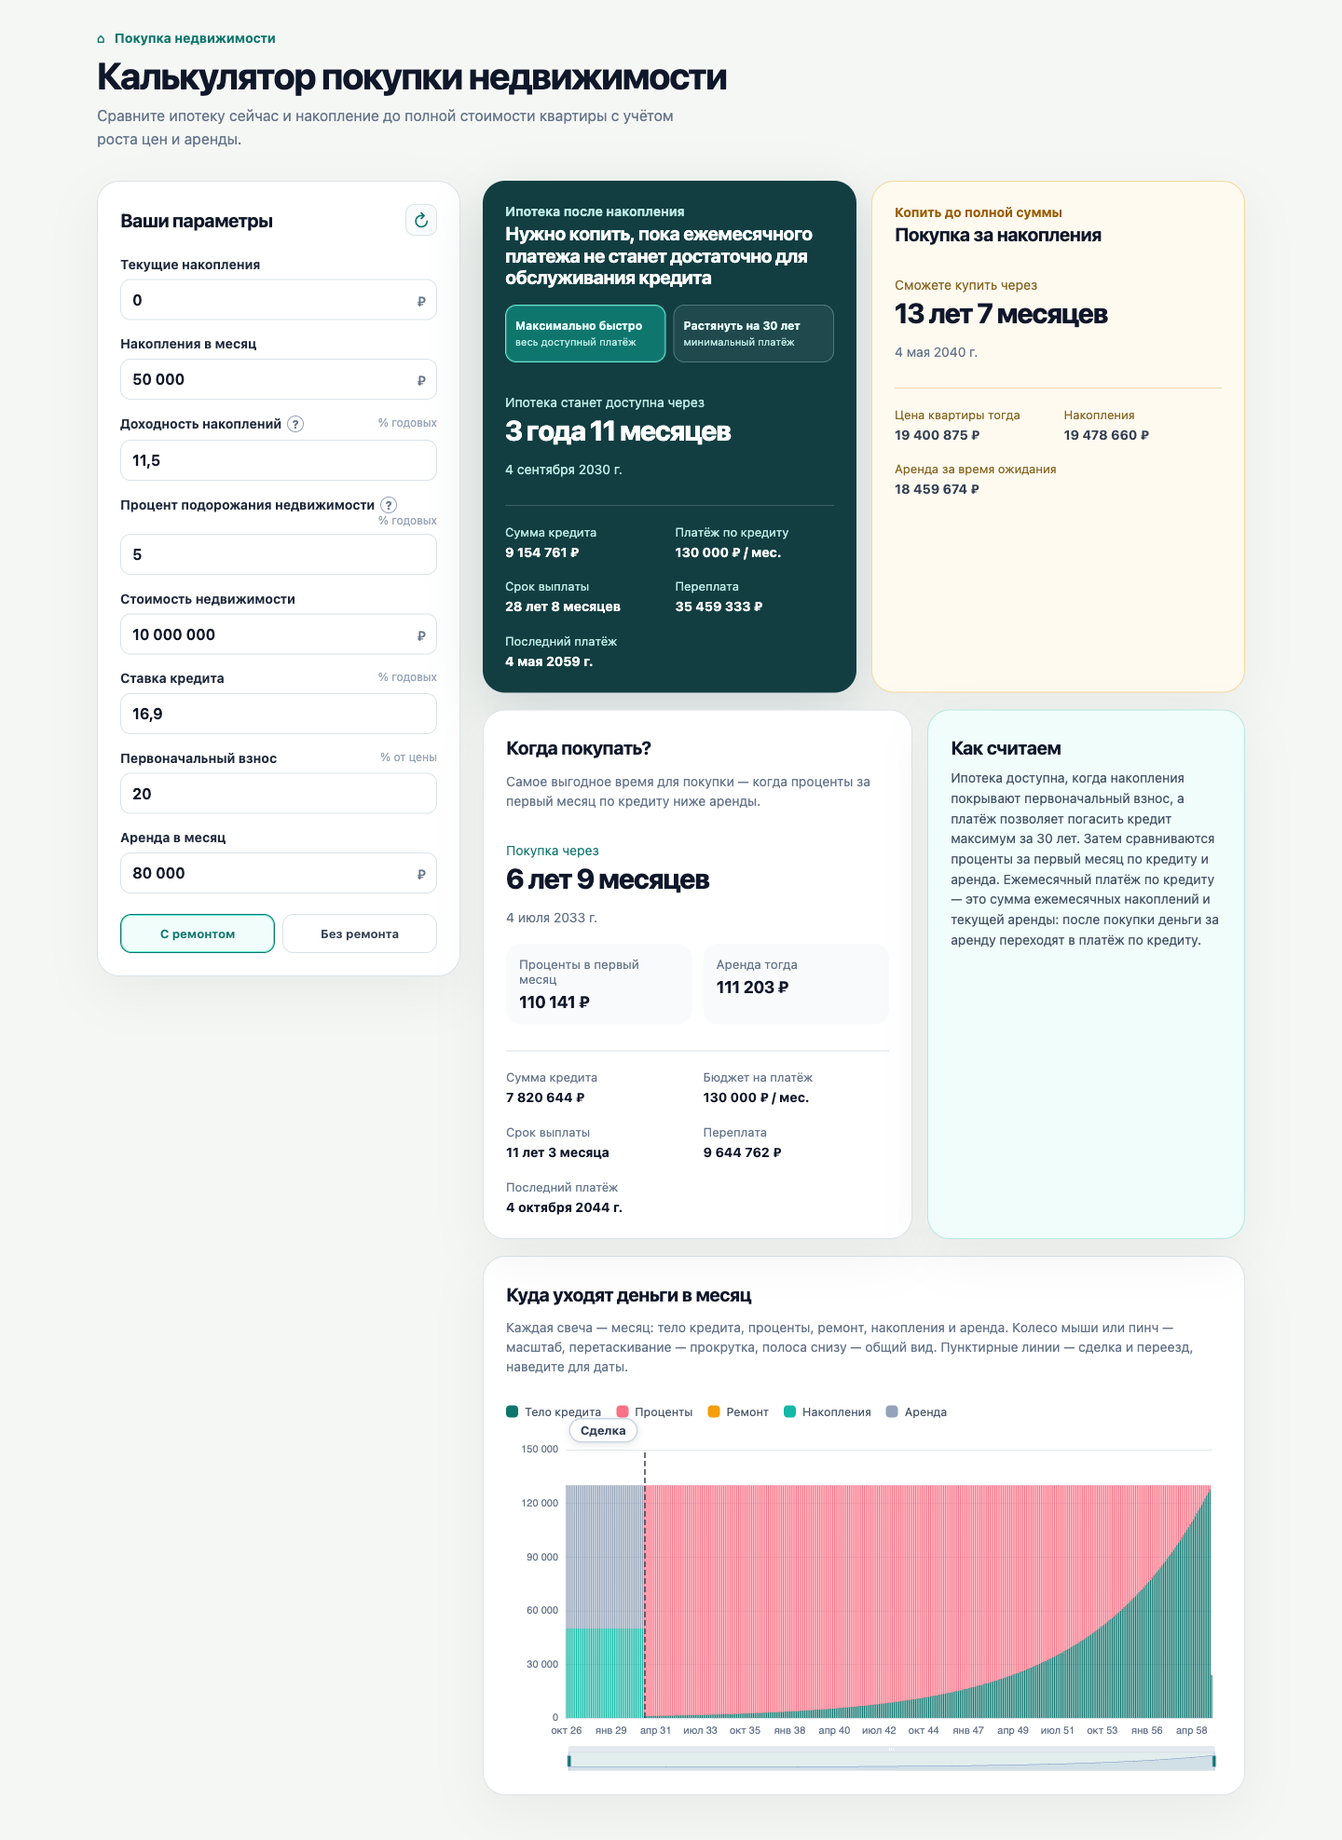
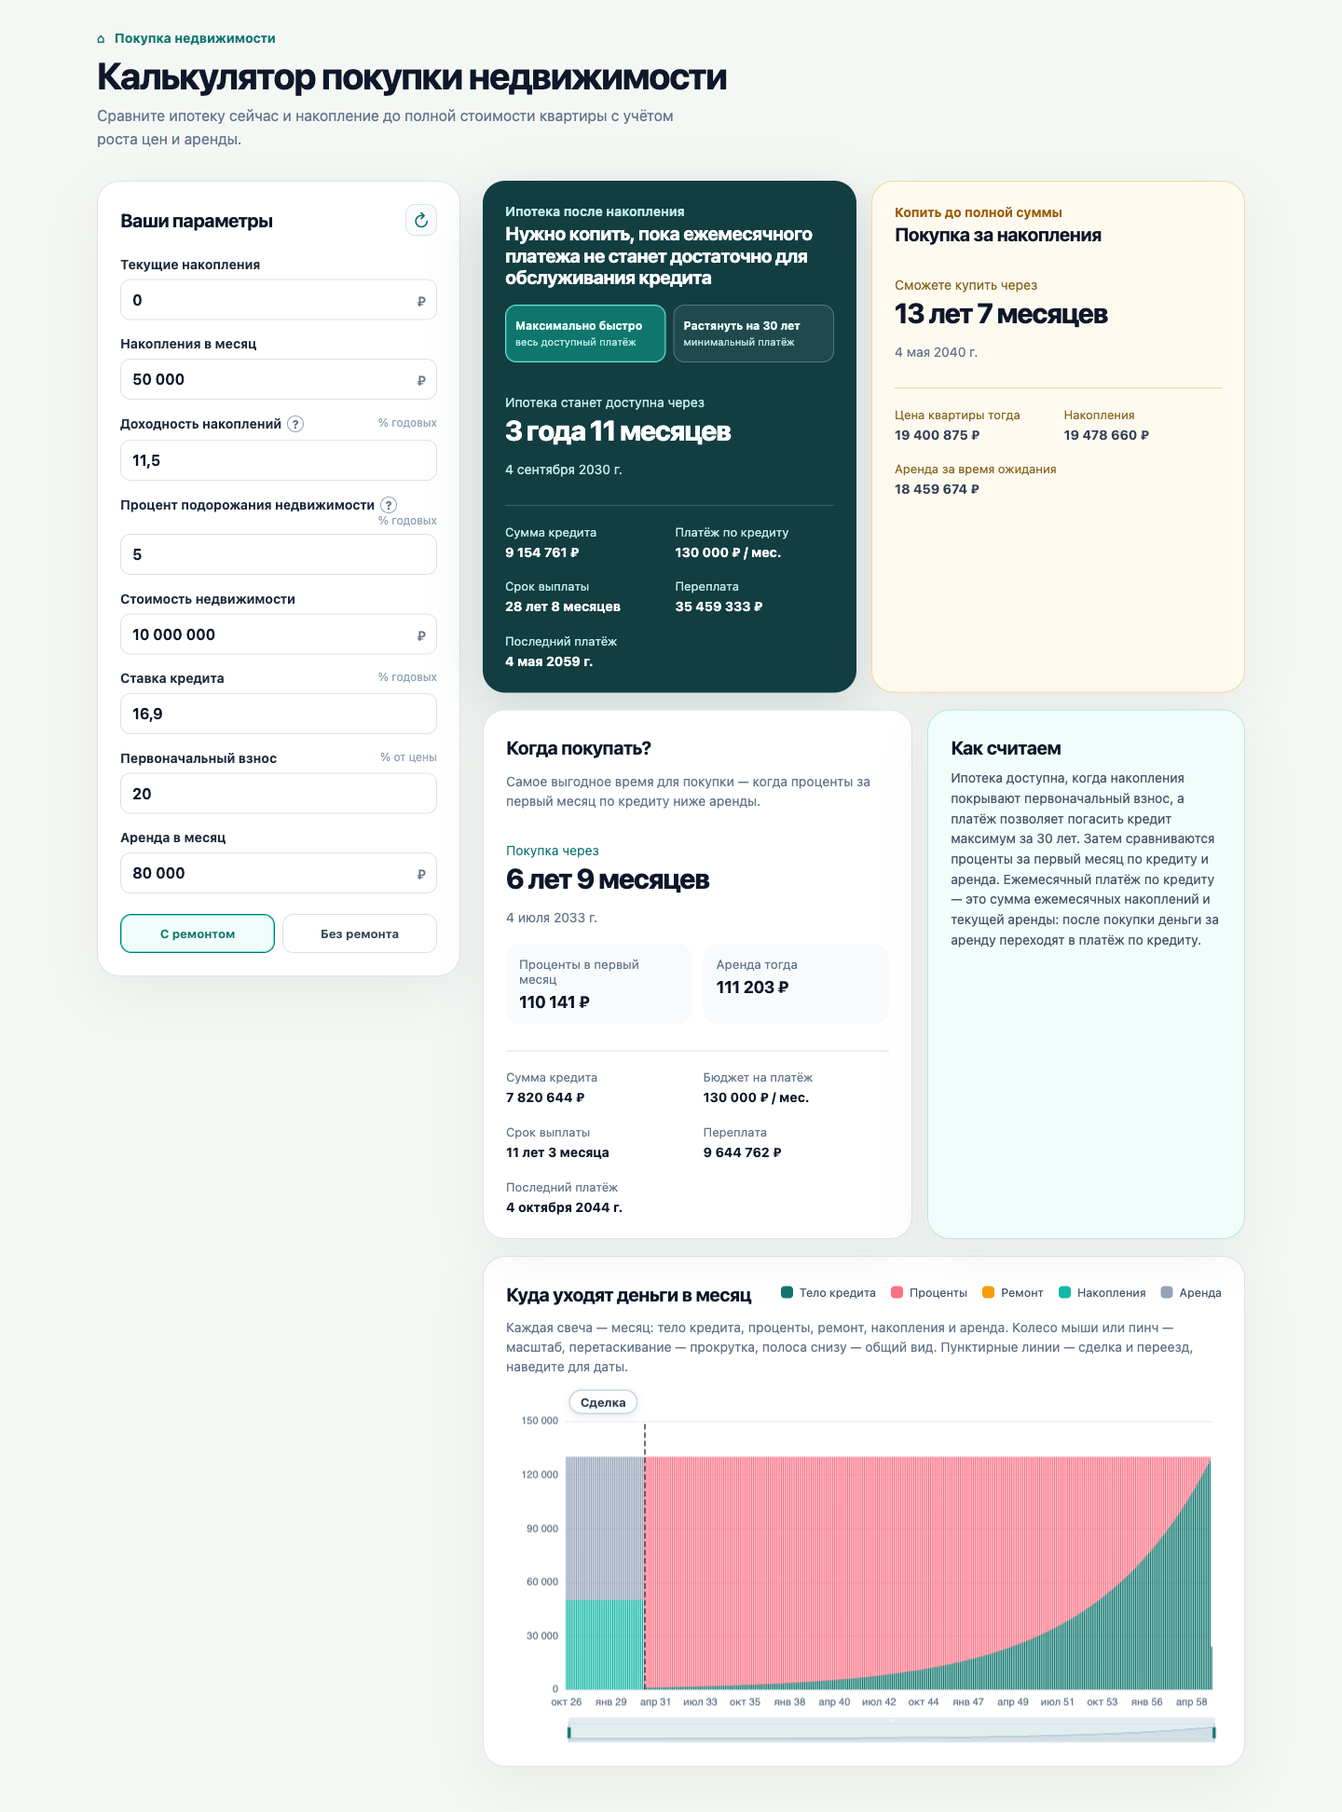
Drop the badge hover accent, lift the legend to the title row (#10)
The teal hover fill on the deal/move badges looked off - plain
white pills with the date tooltip are enough. The legend now sits
level with the card heading, description flows below full-width.

diff --git a/src/App.vue b/src/App.vue
@@ -196,5 +196,5 @@ onMounted(() => { const context = document.modelContext; if (!context?.registerT
     <p v-else class="empty">Первоначальный взнос не накапливается в горизонте 60 лет.</p>
   </article>
   <article class="card cash"><p class="kicker">Копить до полной суммы</p><h2>Покупка за накопления</h2><template v-if="result.cashPurchase"><p class="big-label">Сможете купить через</p><p class="big">{{ duration(result.cashPurchase.month) }}</p><p class="muted">{{ formatDate(addMonths(new Date(), result.cashPurchase.month)) }}</p><dl><div><dt>Цена квартиры тогда</dt><dd>{{ money.format(result.cashPurchase.price) }}</dd></div><div><dt>Накопления</dt><dd>{{ money.format(result.cashPurchase.balance) }}</dd></div><div class="wide"><dt>Аренда за время ожидания</dt><dd>{{ money.format(result.cashPurchase.rentPaid) }}</dd></div><div v-if="renovationNeeded" class="wide"><dt>Дата переезда</dt><dd>{{ moveDate(result.cashPurchase.moveMonth) }}</dd></div></dl></template><p v-else class="empty">При этих параметрах накопления не догоняют стоимость недвижимости за 60 лет. Увеличьте ежемесячный взнос или доходность вклада.</p></article></div>
-  <div class="bottom"><article class="card threshold"><h2>Когда покупать?</h2><p class="muted">Самое выгодное время для покупки — когда проценты за первый месяц по кредиту ниже аренды.</p><template v-if="result.thresholdPurchase"><p class="big-label">Покупка через</p><p class="big">{{ duration(result.thresholdPurchase.month) }}</p><p class="muted">{{ formatDate(addMonths(new Date(), result.thresholdPurchase.month)) }}</p><div class="year"><div><small>Проценты в первый месяц</small><strong>{{ money.format(result.thresholdPurchase.firstMonthInterest) }}</strong></div><div><small>Аренда тогда</small><strong>{{ money.format(result.thresholdPurchase.rent) }}</strong></div></div><dl><div><dt>Сумма кредита</dt><dd>{{ money.format(result.thresholdPurchase.principal) }}</dd></div><div><dt>Бюджет на платёж</dt><dd>{{ money.format(result.thresholdPurchase.payment) }} / мес.</dd></div><div><dt>Срок выплаты</dt><dd>{{ duration(result.thresholdPurchase.months) }}</dd></div><div><dt>Переплата</dt><dd>{{ money.format(result.thresholdPurchase.overpayment) }}</dd></div><div class="wide"><dt>Последний платёж</dt><dd>{{ formatDate(addMonths(addMonths(new Date(), result.thresholdPurchase.month), result.thresholdPurchase.months)) }}</dd></div><div v-if="renovationNeeded"><dt>Переезд</dt><dd>{{ moveDate(result.thresholdPurchase.moveMonth) }}</dd></div><div v-if="renovationNeeded" class="wide"><dt>Аренда до переезда</dt><dd>{{ moveRent(result.thresholdPurchase.moveMonth) }}</dd></div></dl></template><p v-else class="empty">В горизонте 60 лет условия покупки не выполняются.</p></article><aside class="card how"><h2>Как считаем</h2><p>Ипотека доступна, когда накопления покрывают первоначальный взнос, а платёж позволяет погасить кредит максимум за 30 лет. Затем сравниваются проценты за первый месяц по кредиту и аренда. Ежемесячный платёж по кредиту — это сумма ежемесячных накоплений и текущей аренды: после покупки деньги за аренду переходят в платёж по кредиту.</p><p v-if="renovationNeeded && renovationFunding === 'before'">Квартира без ремонта: цель накоплений — первоначальный взнос плюс стоимость ремонта, обе суммы растут вместе с ценой недвижимости. Сделка, затем ремонт — в это время аренда продолжается, а платёж по кредиту обслуживается только из ежемесячных накоплений. Аренда переходит в платёж по кредиту после переезда.</p><p v-if="renovationNeeded && renovationFunding === 'after'">Ремонт после покупки: сделка — при накоплении первоначального взноса. Пока ремонт не оплачен, кредит обслуживается 30-летним аннуитетом, а излишек «накопления минус аннуитет» идёт на ремонт поэтапно. Переезд — когда завершены и работы, и оплата; после переезда свободные деньги ускоряют погашение.</p></aside></div><article class="card cashflow-chart"><div class="cashflow-head"><div><h2>Куда уходят деньги в месяц</h2><p class="muted">Каждая свеча — месяц: тело кредита, проценты, ремонт, накопления и аренда. Колесо мыши или пинч — масштаб, перетаскивание — прокрутка, полоса снизу — общий вид. Пунктирные линии — сделка и переезд, наведите для даты.</p></div><div class="chart-legend"><span><i class="cf-principal"></i>Тело кредита</span><span><i class="cf-interest"></i>Проценты</span><span><i class="cf-renovation"></i>Ремонт</span><span><i class="cf-savings"></i>Накопления</span><span><i class="cf-rent"></i>Аренда</span></div></div><div class="cashflow-stage"><div v-show="cashflow && !cashflowError" ref="cashflowEl" class="cashflow-echarts"></div><template v-if="cashflow && !cashflowError"><div v-for="badge in cashflowBadges" :key="badge.key" class="cf-badge" :class="badge.key" :style="{ left: badge.x + 'px' }" @mouseenter="showBadgeTip(badge, $event)" @mousemove="showBadgeTip(badge, $event)" @mouseleave="cashflowBadgeTip = null">{{ badge.label }}</div><div v-if="cashflowBadgeTip" class="chart-tooltip chart-tooltip-plain" :style="{ left: cashflowBadgeTip.left + 'px', top: cashflowBadgeTip.top + 'px' }">{{ cashflowBadgeTip.text }}</div></template></div><p v-if="cashflowError" class="warning">Не удалось построить график — проверьте параметры. Он вернётся, когда значения станут корректными.</p><p v-else-if="!cashflow" class="warning">При этих параметрах ипотечный план не строится — график недоступен.</p></article></section></div></main>
+  <div class="bottom"><article class="card threshold"><h2>Когда покупать?</h2><p class="muted">Самое выгодное время для покупки — когда проценты за первый месяц по кредиту ниже аренды.</p><template v-if="result.thresholdPurchase"><p class="big-label">Покупка через</p><p class="big">{{ duration(result.thresholdPurchase.month) }}</p><p class="muted">{{ formatDate(addMonths(new Date(), result.thresholdPurchase.month)) }}</p><div class="year"><div><small>Проценты в первый месяц</small><strong>{{ money.format(result.thresholdPurchase.firstMonthInterest) }}</strong></div><div><small>Аренда тогда</small><strong>{{ money.format(result.thresholdPurchase.rent) }}</strong></div></div><dl><div><dt>Сумма кредита</dt><dd>{{ money.format(result.thresholdPurchase.principal) }}</dd></div><div><dt>Бюджет на платёж</dt><dd>{{ money.format(result.thresholdPurchase.payment) }} / мес.</dd></div><div><dt>Срок выплаты</dt><dd>{{ duration(result.thresholdPurchase.months) }}</dd></div><div><dt>Переплата</dt><dd>{{ money.format(result.thresholdPurchase.overpayment) }}</dd></div><div class="wide"><dt>Последний платёж</dt><dd>{{ formatDate(addMonths(addMonths(new Date(), result.thresholdPurchase.month), result.thresholdPurchase.months)) }}</dd></div><div v-if="renovationNeeded"><dt>Переезд</dt><dd>{{ moveDate(result.thresholdPurchase.moveMonth) }}</dd></div><div v-if="renovationNeeded" class="wide"><dt>Аренда до переезда</dt><dd>{{ moveRent(result.thresholdPurchase.moveMonth) }}</dd></div></dl></template><p v-else class="empty">В горизонте 60 лет условия покупки не выполняются.</p></article><aside class="card how"><h2>Как считаем</h2><p>Ипотека доступна, когда накопления покрывают первоначальный взнос, а платёж позволяет погасить кредит максимум за 30 лет. Затем сравниваются проценты за первый месяц по кредиту и аренда. Ежемесячный платёж по кредиту — это сумма ежемесячных накоплений и текущей аренды: после покупки деньги за аренду переходят в платёж по кредиту.</p><p v-if="renovationNeeded && renovationFunding === 'before'">Квартира без ремонта: цель накоплений — первоначальный взнос плюс стоимость ремонта, обе суммы растут вместе с ценой недвижимости. Сделка, затем ремонт — в это время аренда продолжается, а платёж по кредиту обслуживается только из ежемесячных накоплений. Аренда переходит в платёж по кредиту после переезда.</p><p v-if="renovationNeeded && renovationFunding === 'after'">Ремонт после покупки: сделка — при накоплении первоначального взноса. Пока ремонт не оплачен, кредит обслуживается 30-летним аннуитетом, а излишек «накопления минус аннуитет» идёт на ремонт поэтапно. Переезд — когда завершены и работы, и оплата; после переезда свободные деньги ускоряют погашение.</p></aside></div><article class="card cashflow-chart"><div class="cashflow-head"><h2>Куда уходят деньги в месяц</h2><div class="chart-legend"><span><i class="cf-principal"></i>Тело кредита</span><span><i class="cf-interest"></i>Проценты</span><span><i class="cf-renovation"></i>Ремонт</span><span><i class="cf-savings"></i>Накопления</span><span><i class="cf-rent"></i>Аренда</span></div></div><p class="muted">Каждая свеча — месяц: тело кредита, проценты, ремонт, накопления и аренда. Колесо мыши или пинч — масштаб, перетаскивание — прокрутка, полоса снизу — общий вид. Пунктирные линии — сделка и переезд, наведите для даты.</p><div class="cashflow-stage"><div v-show="cashflow && !cashflowError" ref="cashflowEl" class="cashflow-echarts"></div><template v-if="cashflow && !cashflowError"><div v-for="badge in cashflowBadges" :key="badge.key" class="cf-badge" :class="badge.key" :style="{ left: badge.x + 'px' }" @mouseenter="showBadgeTip(badge, $event)" @mousemove="showBadgeTip(badge, $event)" @mouseleave="cashflowBadgeTip = null">{{ badge.label }}</div><div v-if="cashflowBadgeTip" class="chart-tooltip chart-tooltip-plain" :style="{ left: cashflowBadgeTip.left + 'px', top: cashflowBadgeTip.top + 'px' }">{{ cashflowBadgeTip.text }}</div></template></div><p v-if="cashflowError" class="warning">Не удалось построить график — проверьте параметры. Он вернётся, когда значения станут корректными.</p><p v-else-if="!cashflow" class="warning">При этих параметрах ипотечный план не строится — график недоступен.</p></article></section></div></main>
 </template>

diff --git a/src/style.css b/src/style.css
@@ -35,16 +35,15 @@ dl { display: grid; grid-template-columns: repeat(2, minmax(0, 1fr)); gap: 20px 
 
 .chart-legend span { display: inline-flex; align-items: center; gap: 7px; }.chart-legend i { width: 14px; height: 14px; border-radius: 4px; }
 .cashflow-chart { margin-top: 18px; }
-.cashflow-head { display: flex; justify-content: space-between; align-items: flex-start; gap: 12px 20px; flex-wrap: wrap; }
-.cashflow-head .chart-legend { margin-top: 4px; }
+.cashflow-head { display: flex; justify-content: space-between; align-items: center; gap: 10px 20px; flex-wrap: wrap; }
+.cashflow-head .chart-legend { margin-top: 0; }
 .chart-legend { display: flex; flex-wrap: wrap; gap: 8px 16px; font-size: 12.5px; color: #475569; }.chart-legend span { display: inline-flex; align-items: center; gap: 7px; }.chart-legend i { width: 13px; height: 13px; border-radius: 4px; flex: none; }
 .cf-principal { background: #0f766e; }.cf-interest { background: #fb7185; }.cf-renovation { background: #f59e0b; }.cf-savings { background: #14b8a6; }.cf-rent { background: #94a3b8; }
 .cashflow-stage { position: relative; }
 .cashflow-echarts { width: 100%; height: 380px; }
-.cf-badge { position: absolute; top: 0; z-index: 6; padding: 3px 11px; border: 1.5px solid #cbd5e1; border-radius: 999px; background: #fff; color: #334155; font-size: 13px; font-weight: 700; line-height: 1.35; box-shadow: 0 2px 8px rgba(15, 23, 42, .1); user-select: none; cursor: default; transition: background .12s, border-color .12s, color .12s; }
+.cf-badge { position: absolute; top: 0; z-index: 6; padding: 3px 11px; border: 1.5px solid #cbd5e1; border-radius: 999px; background: #fff; color: #334155; font-size: 13px; font-weight: 700; line-height: 1.35; box-shadow: 0 2px 8px rgba(15, 23, 42, .1); user-select: none; cursor: default; }
 .cf-badge.deal { transform: translateX(calc(-100% - 7px)); }
 .cf-badge.move { transform: translateX(7px); }
-.cf-badge:hover { background: #0f766e; border-color: #0f766e; color: #fff; }
 .chart-tooltip-plain { position: absolute; z-index: 20; padding: 8px 12px; border-radius: 12px; background: #0f172a; color: #e2e8f0; font-size: 12.5px; box-shadow: 0 14px 30px rgba(15, 23, 42, .28); pointer-events: none; white-space: nowrap; }
 @media (max-width: 620px) { .cashflow-echarts { height: 300px; } }
 
